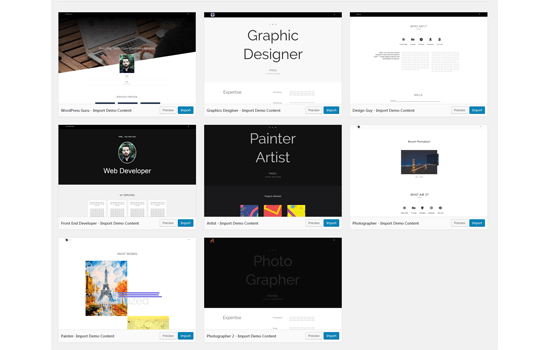
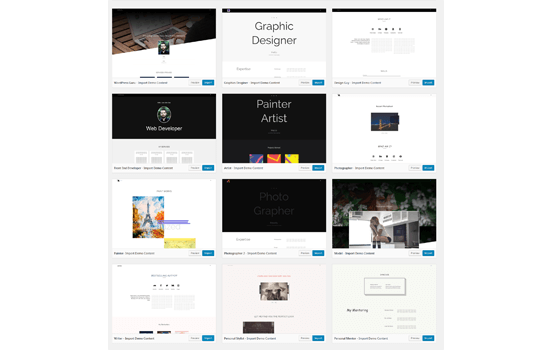
Update: Dashboard demo templates

diff --git a/sass/style.scss b/sass/style.scss
@@ -5,7 +5,7 @@ Author: Asphalt Themes
 Author URI: https://asphaltthemes.com/
 Description: A bloat-free WordPress portfolio theme for building personal website. You can take full advantage of the free widgets to create amazing personal website regardless whether you are graphic designer, painters, artists, web designer, web developer, software engineer or photographer. You can customize elements and widgets inside customizer without you having to tweaking any code. The theme comes with Full width layout, easy Logo upload. Portfolioo is 100% responsive built with HTML5 and CSS3, it is SEO friendly, mobile optimized and retina ready, thoroughly tested by WordPress coding standard has clean and a bloat free code, you can flesh out free portfolio, grid, personal showcase website for free. Perfect Portfolio theme for Graphic Designers, Web Designers, Web Developers, Artists, Painters and Photographers.
 
-Version: 0.1.8
+Version: 0.1.9
 License: GNU General Public License v2 or later
 License URI: https://www.gnu.org/licenses/gpl-2.0.html
 Text Domain: portfolioo

diff --git a/style.css b/style.css
@@ -6,7 +6,7 @@ Author: Asphalt Themes
 Author URI: https://asphaltthemes.com/
 Description: A bloat-free WordPress portfolio theme for building personal website. You can take full advantage of the free widgets to create amazing personal website regardless whether you are graphic designer, painters, artists, web designer, web developer, software engineer or photographer. You can customize elements and widgets inside customizer without you having to tweaking any code. The theme comes with Full width layout, easy Logo upload. Portfolioo is 100% responsive built with HTML5 and CSS3, it is SEO friendly, mobile optimized and retina ready, thoroughly tested by WordPress coding standard has clean and a bloat free code, you can flesh out free portfolio, grid, personal showcase website for free. Perfect Portfolio theme for Graphic Designers, Web Designers, Web Developers, Artists, Painters and Photographers.
 
-Version: 0.1.8
+Version: 0.1.9
 License: GNU General Public License v2 or later
 License URI: https://www.gnu.org/licenses/gpl-2.0.html
 Text Domain: portfolioo

diff --git a/inc/dashboard/portfolioo-info-dashboard.php b/inc/dashboard/portfolioo-info-dashboard.php
@@ -114,6 +114,7 @@ function portfolioo_getting_started() {
 					<p><?php esc_html_e('Easy One click demo import', 'portfolioo'); ?></p>
 					<div class="dashboard-upgrade-benefit">
 					<ul>
+						<li><?php esc_html_e('16 Prebuilt templates to kickstart', 'portfolioo'); ?></li>
 						<li><?php esc_html_e('Say goodbye to complicated site setup', 'portfolioo'); ?></li>
 						<li><?php esc_html_e('Lots of Portfolio templates at your fingertip', 'portfolioo'); ?></li>
 					</ul>

diff --git a/README.md b/README.md
@@ -20,6 +20,11 @@ along with this program.  If not, see http://www.gnu.org/licenses/
 
 * Changelog *
 
+#### 0.1.9 (21.01.2018)
+- Update: Dashboard templates
+- 
+
+
 #### 0.1.8 (05.01.2018)
 - Update: template options
 
